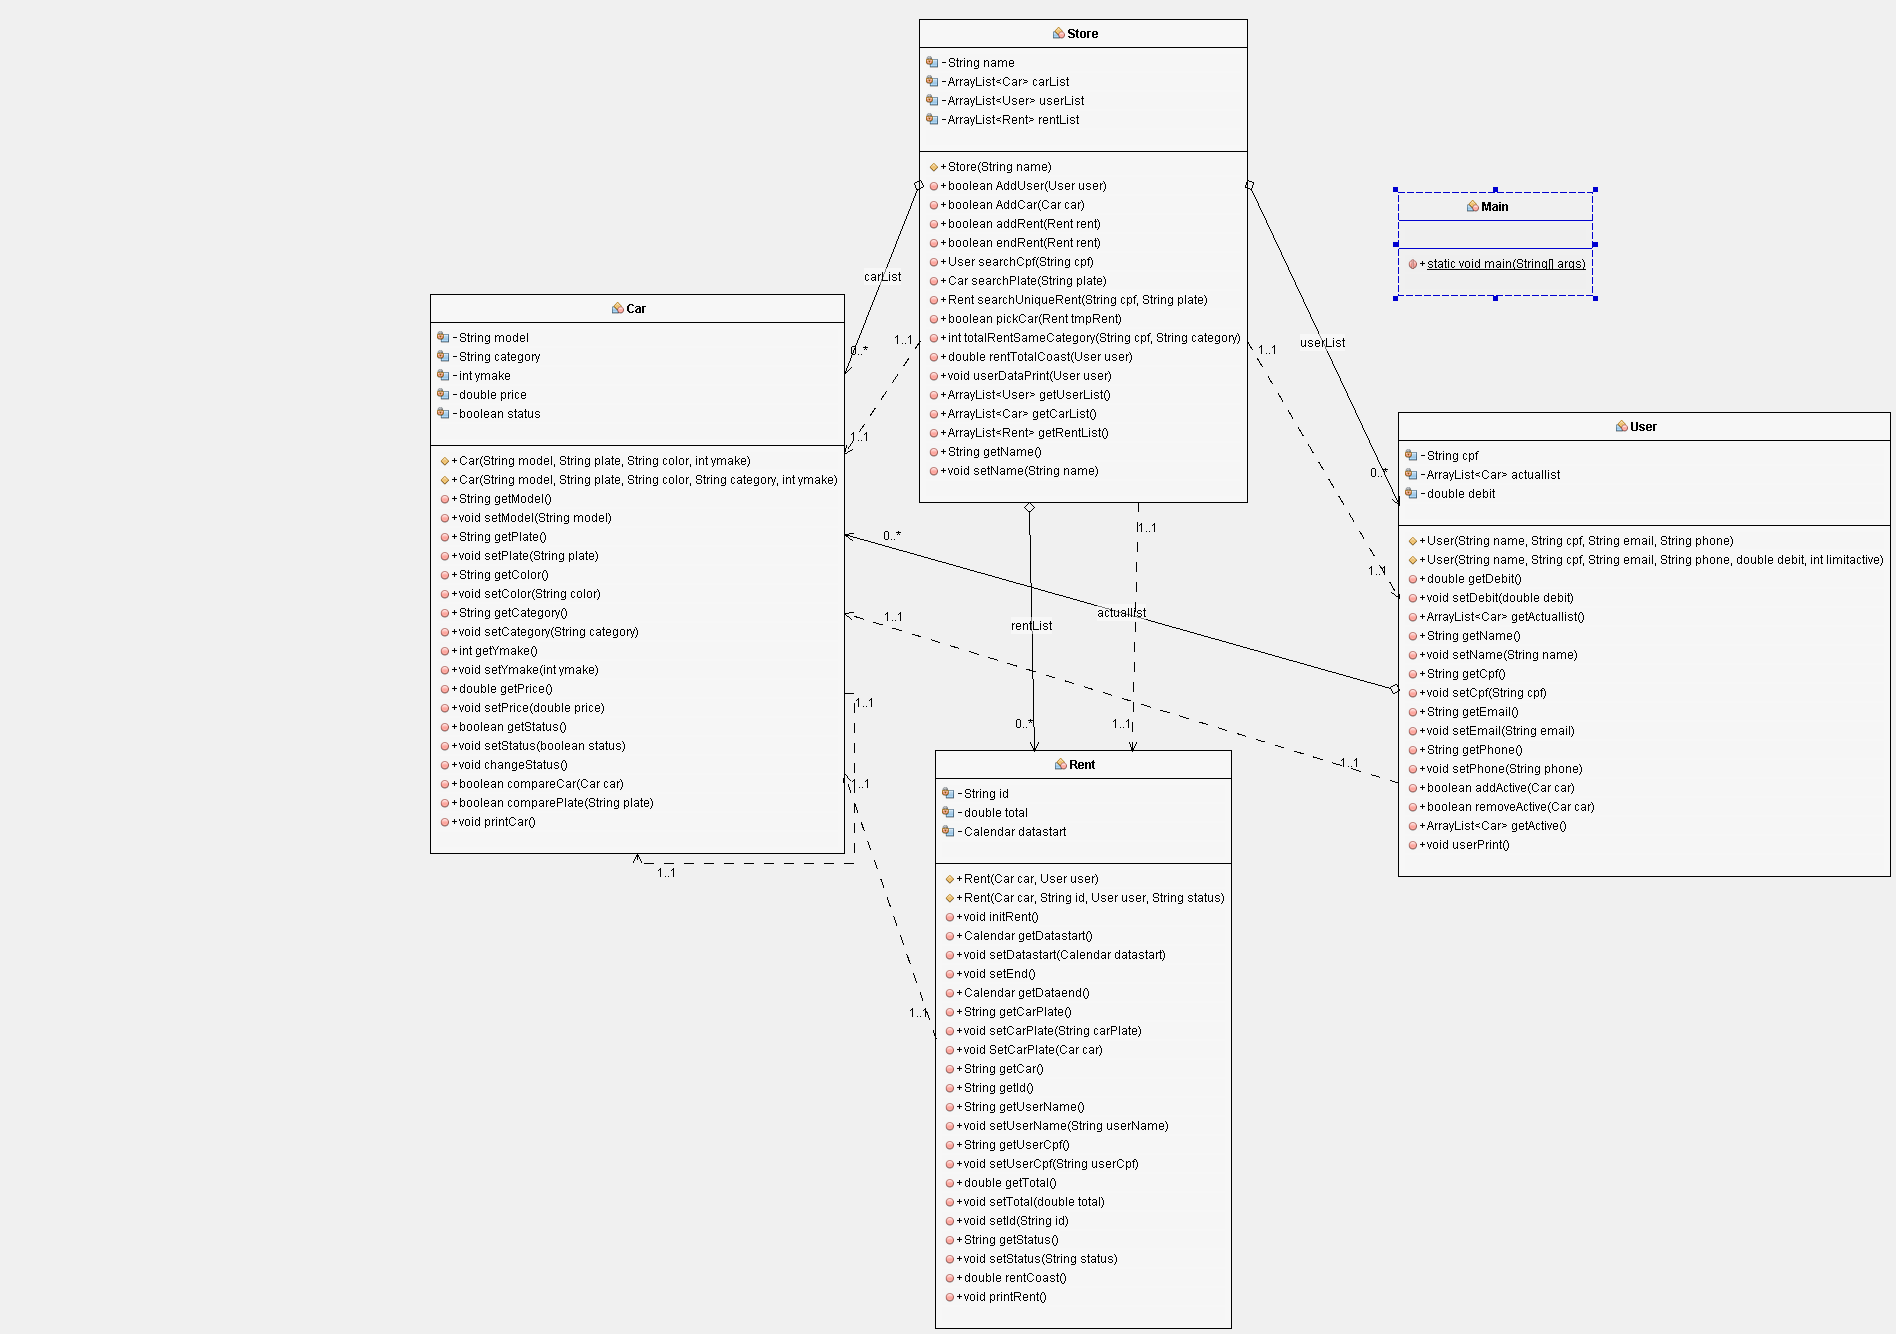
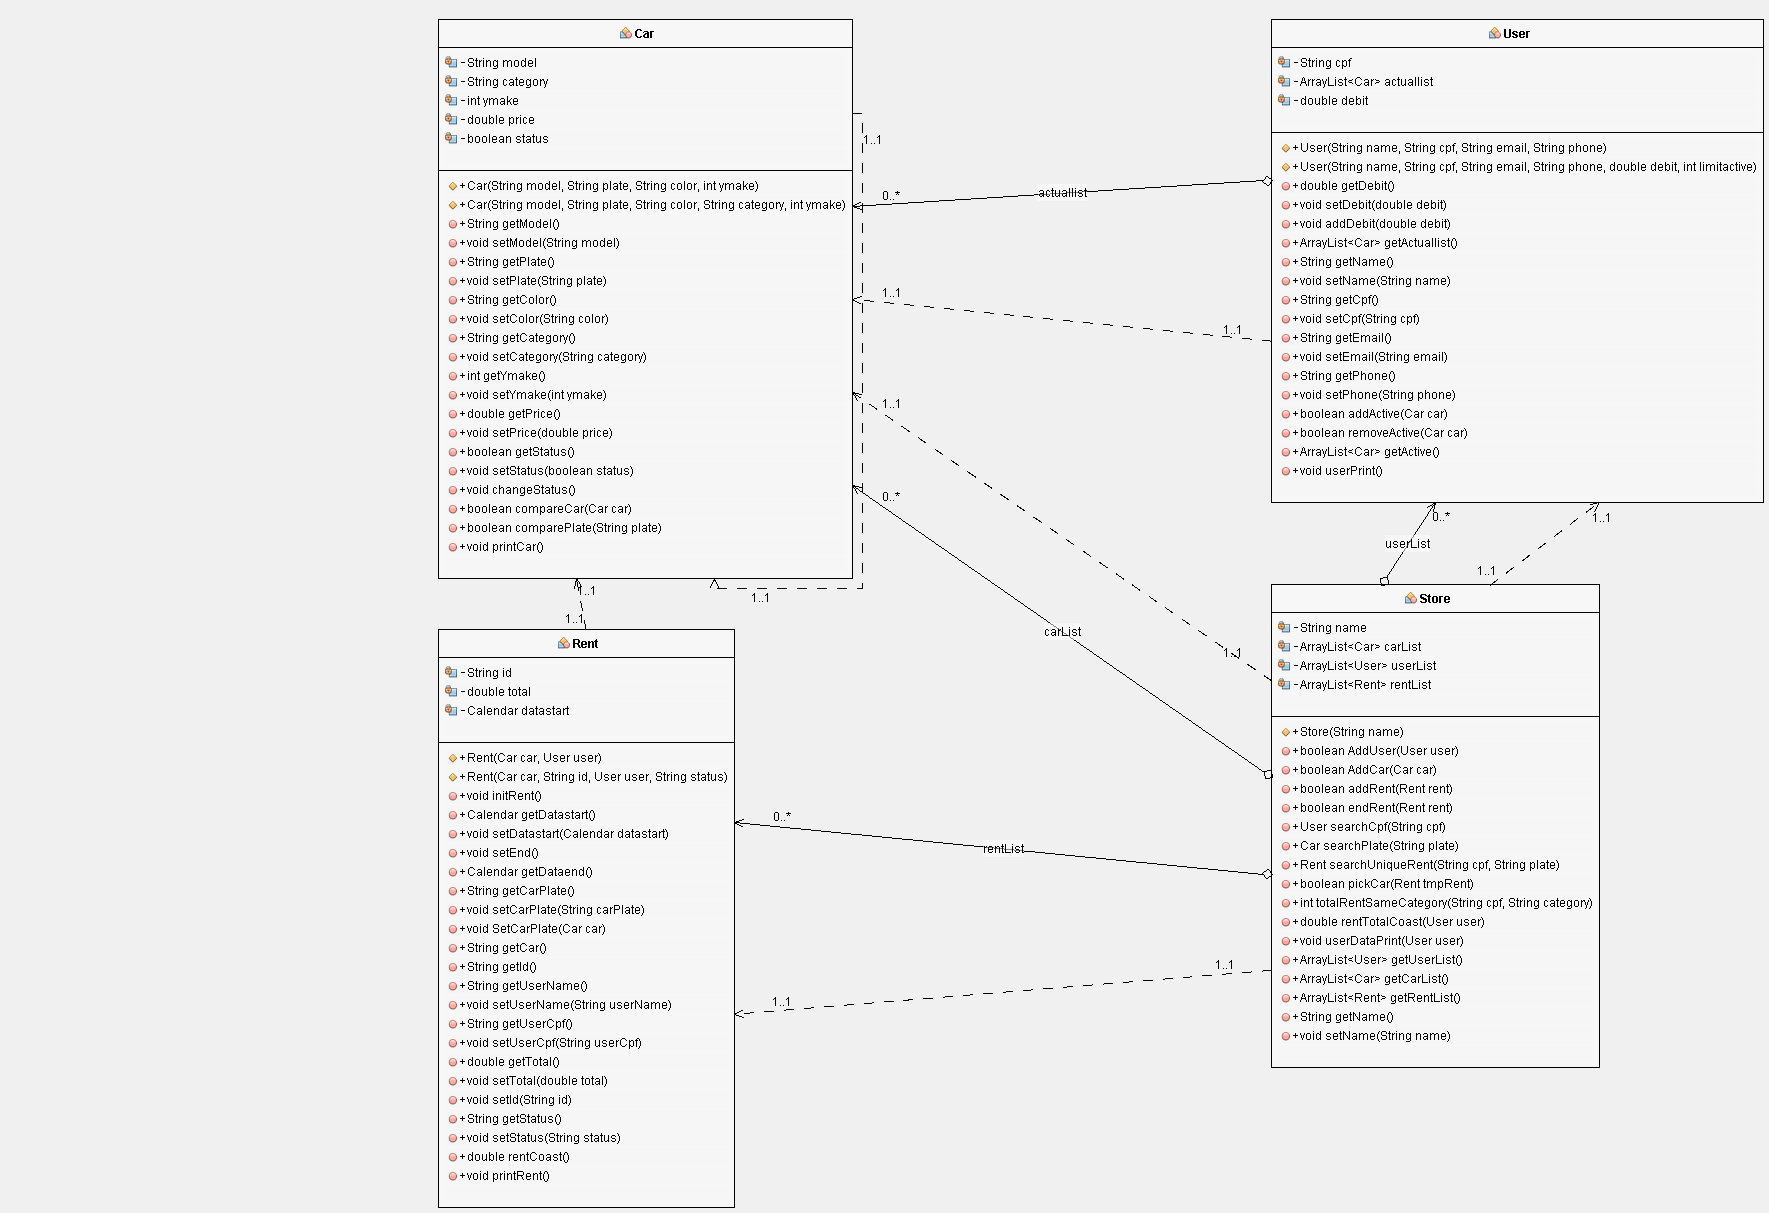
finalização: Diagrama

diff --git a/RentCar/src/com/app/User.java b/RentCar/src/com/app/User.java
@@ -15,6 +15,10 @@ public class User {
 		this.debit = debit;
 	}
 
+	public void addDebit(double debit) {
+		this.debit += debit;
+	}
+
 	public ArrayList<Car> getActuallist() {
 		return actuallist;
 	}
@@ -94,6 +98,7 @@ public class User {
 	public void userPrint() {
 		System.out.println("--DADOS DO USUARIO--");
 		System.out.println("Nome: "+this.name + " CPF: "+this.cpf);
+		System.out.println("Débito total: "+ this.debit);
 		System.out.println("--LISTA DE ATIVOS--");
 		if (actuallist.size() == 0) {
 			System.out.println("Nenhum carro ativo");

diff --git a/RentCar/src/com/app/Store.java b/RentCar/src/com/app/Store.java
@@ -37,7 +37,10 @@ public class Store {
 			if (obj.equals(rent)) {
 				obj.setEnd();
 				for(User obj2 : userList) {
-					obj2.removeActive(searchPlate(obj.getCarPlate()));
+					if (obj2.getCpf().equals(obj.getUserCpf())) {
+						obj2.removeActive(searchPlate(obj.getCarPlate()));
+						obj2.addDebit(obj.getTotal());
+					}
 				}
 				return true;			
 			}
